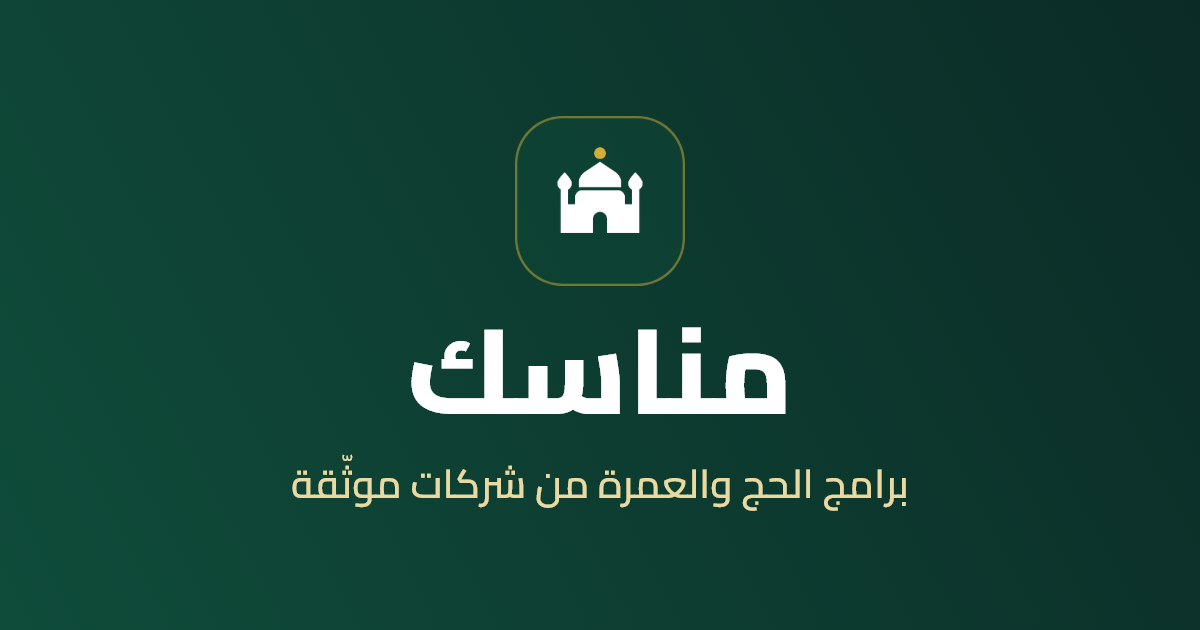
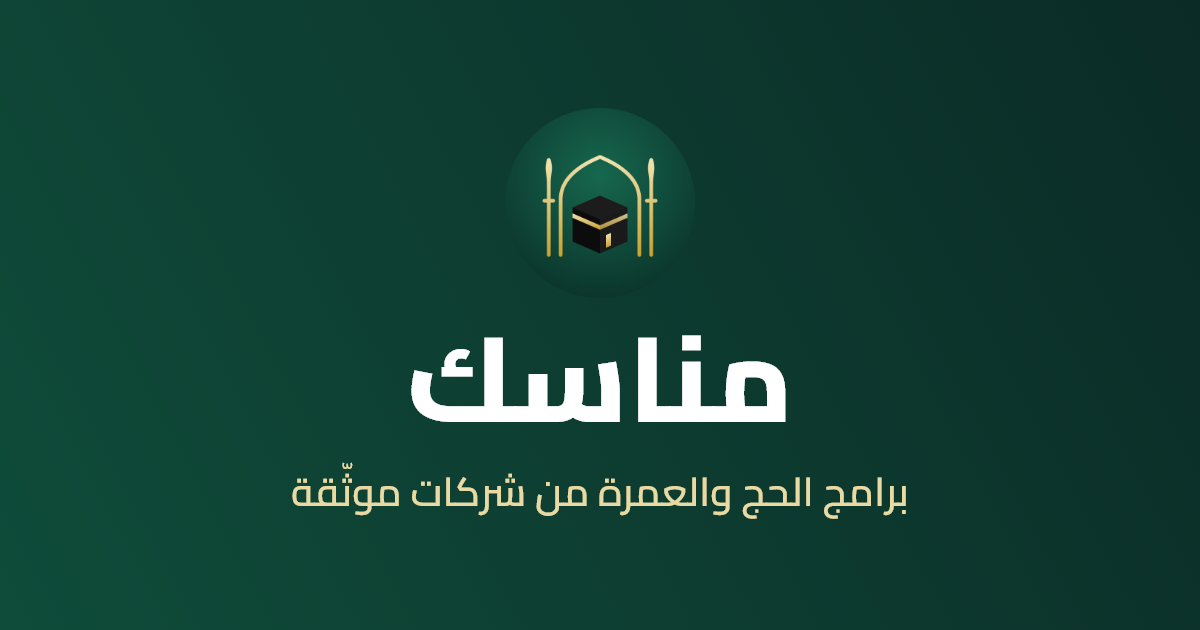
Add files via upload

diff --git a/delete.html b/delete.html
@@ -1,0 +1,57 @@
+<!doctype html>
+<html lang="ar" dir="rtl">
+<head>
+<meta charset="utf-8">
+<meta name="viewport" content="width=device-width, initial-scale=1">
+<title>حذف الحساب · مناسك</title>
+<meta name="description" content="كيف تحذف حسابك وبياناتك من تطبيق مناسك: من التطبيق مباشرة أو بالبريد الإلكتروني.">
+<meta property="og:title" content="حذف الحساب · مناسك">
+<meta property="og:image" content="https://manasik-app.github.io/og.png">
+<meta name="theme-color" content="#0f4c3a">
+<link rel="icon" type="image/png" href="favicon.png">
+<link rel="apple-touch-icon" href="apple-touch-icon.png">
+<link rel="stylesheet" href="style.css">
+</head>
+<body>
+<main class="wrap doc">
+<h1>حذف الحساب</h1>
+<p class="updated">آخر تحديث: 11 أكتوبر 2026</p>
+
+<h2>الطريقة الأولى: من التطبيق (فوري)</h2>
+<ol>
+  <li>افتح تطبيق مناسك ثم تبويب <strong>المزيد</strong>.</li>
+  <li>اضغط على <strong>الملف الشخصي</strong>.</li>
+  <li>اضغط على <strong>حذف حسابي</strong>.</li>
+  <li>اقرأ ما سيُمسح وما سيُجهَّل، ثم اكتب كلمة «حذف» لتفعيل زر التأكيد.</li>
+  <li>اضغط <strong>حذف حسابي نهائيًا</strong>، ويتم الحذف فورًا ويبدأ التطبيق بحساب جديد فارغ.</li>
+</ol>
+
+<h2>الطريقة الثانية: بالبريد الإلكتروني</h2>
+<p>أرسل طلبك إلى <a href="mailto:manasik.app.eg@gmail.com">manasik.app.eg@gmail.com</a> ومعه <strong>رقم حسابك</strong> (يظهر في المزيد ← الملف الشخصي)، وننفّذ الحذف خلال 30 يومًا. إن لم تتمكن من فتح التطبيق فاذكر رقم الحجز أو رقم الهاتف الذي استخدمته في طلبك للتحقق.</p>
+
+<h2>ما الذي يُمسح؟</h2>
+<ul>
+  <li>حسابك على التطبيق وقائمة المفضلة.</li>
+  <li>البريد الإلكتروني المرتبط بحسابك (إن اخترت حمايته).</li>
+  <li>رمز الإشعارات الخاص بجهازك.</li>
+</ul>
+
+<h2>ما الذي يُجهَّل (يبقى بلا هوية)؟</h2>
+<ul>
+  <li>اسمك ورقم هاتفك وملاحظاتك في حجوزاتك: تبقى سجلات الحجز للشركة المنظِّمة باسم «مستخدم محذوف» ودون رقمك.</li>
+  <li>اسمك في تقييماتك للبرامج.</li>
+  <li>إحصائيات الاستخدام المجمّعة (مشاهدات وضغطات) تُفصل عن حسابك ولا يمكن ربطها بك.</li>
+</ul>
+
+<h2>ملاحظات</h2>
+<ul>
+  <li>الحذف نهائي ولا يمكن التراجع عنه، ولن تستطيع استرجاع حجوزاتك بعده.</li>
+  <li>البيانات المحفوظة محليًا على جهازك (المظهر وبيانات الملف) تُمسح بمسح بيانات التطبيق أو حذفه.</li>
+  <li>لحذف حساب <strong>شركة</strong> تواصل معنا على البريد أعلاه.</li>
+</ul>
+
+<a class="back" href="index.html">العودة إلى الصفحة الرئيسية</a>
+</main>
+<footer><a href="privacy.html">سياسة الخصوصية</a>·<a href="terms.html">الشروط والأحكام</a>·<a href="delete.html">حذف الحساب</a></footer>
+</body>
+</html>

diff --git a/privacy.html b/privacy.html
@@ -7,6 +7,8 @@
 <meta property="og:title" content="سياسة الخصوصية · مناسك">
 <meta property="og:image" content="https://manasik-app.github.io/og.png">
 <meta name="theme-color" content="#0f4c3a">
+<link rel="icon" type="image/png" href="favicon.png">
+<link rel="apple-touch-icon" href="apple-touch-icon.png">
 <link rel="stylesheet" href="style.css">
 </head>
 <body>
@@ -37,7 +39,7 @@
 <h2>الخدمات الخارجية</h2>
 <p>عند الضغط على زر التواصل يُفتح واتساب، ويخضع ما تُرسله هناك لسياسة واتساب. نجمع تقارير أعطال تقنية مجهولة (نوع الجهاز ونسخة النظام وتفاصيل الخطأ) عبر Firebase Crashlytics من Google لتحسين استقرار التطبيق، ودون بيانات شخصية. ونستخدم Firebase Cloud Messaging من Google لإرسال الإشعارات.</p>
 <h2>حذف البيانات</h2>
-<p>يمكنك طلب حذف حسابك وبياناتك (الحجوزات والمفضلة والبريد المرتبط ورمز الإشعارات) بمراسلتنا على manasik.app.eg@gmail.com، أو من التطبيق: المزيد ← الملف الشخصي ← «حذف حسابي»، فيجهّز لك رسالة بريد جاهزة بالطلب ورقم حسابك. يتم الحذف خلال 30 يومًا. تُفصل إحصائيات الاستخدام المجمّعة عن حسابك عند الحذف.</p>
+<p>يمكنك حذف حسابك مباشرة من التطبيق: المزيد ← الملف الشخصي ← «حذف حسابي»، ويتم الحذف فورًا. يُمسح حسابك وقائمة المفضلة والبريد المرتبط ورمز الإشعارات، ويُجهَّل اسمك ورقمك في حجوزاتك (تبقى للشركة باسم «مستخدم محذوف» ودون رقمك) واسمك في تقييماتك، وتُفصل إحصائيات الاستخدام المجمّعة عن حسابك. بديلًا عن ذلك يمكنك إرسال طلب إلى manasik.app.eg@gmail.com ومعه رقم حسابك (يظهر في الملف الشخصي) وننفذه خلال 30 يومًا. لحذف حساب شركة تواصل معنا على نفس البريد. تفاصيل أكثر في صفحة حذف الحساب على موقعنا.</p>
 <h2>الأطفال</h2>
 <p>تُسجَّل بيانات الأطفال كعدد فقط، بدون أسماء.</p>
 <h2>آخر تحديث</h2>
@@ -46,6 +48,6 @@
 <p>للاستفسار عن الخصوصية: manasik.app.eg@gmail.com</p>
 <a class="back" href="index.html">العودة إلى الصفحة الرئيسية</a>
 </main>
-<footer><a href="privacy.html">سياسة الخصوصية</a>·<a href="terms.html">الشروط والأحكام</a></footer>
+<footer><a href="privacy.html">سياسة الخصوصية</a>·<a href="terms.html">الشروط والأحكام</a>·<a href="delete.html">حذف الحساب</a></footer>
 </body>
 </html>

diff --git a/terms.html b/terms.html
@@ -7,6 +7,8 @@
 <meta property="og:title" content="الشروط والأحكام · مناسك">
 <meta property="og:image" content="https://manasik-app.github.io/og.png">
 <meta name="theme-color" content="#0f4c3a">
+<link rel="icon" type="image/png" href="favicon.png">
+<link rel="apple-touch-icon" href="apple-touch-icon.png">
 <link rel="stylesheet" href="style.css">
 </head>
 <body>
@@ -33,6 +35,6 @@
 <p>للاستفسار عن هذه الشروط: manasik.app.eg@gmail.com</p>
 <a class="back" href="index.html">العودة إلى الصفحة الرئيسية</a>
 </main>
-<footer><a href="privacy.html">سياسة الخصوصية</a>·<a href="terms.html">الشروط والأحكام</a></footer>
+<footer><a href="privacy.html">سياسة الخصوصية</a>·<a href="terms.html">الشروط والأحكام</a>·<a href="delete.html">حذف الحساب</a></footer>
 </body>
 </html>

diff --git a/p.html b/p.html
@@ -16,11 +16,13 @@
 <meta name="twitter:card" content="summary_large_image">
 <meta name="theme-color" content="#0f4c3a">
 <meta name="robots" content="noindex">
+<link rel="icon" type="image/png" href="favicon.png">
+<link rel="apple-touch-icon" href="apple-touch-icon.png">
 <link rel="stylesheet" href="style.css">
 </head>
 <body>
 <main class="wrap open">
-  <div class="logo" aria-hidden="true">م</div>
+  <img class="logo" src="logo.png" alt="" width="72" height="72">
   <h1>برنامج على مناسك</h1>
   <p id="msg">افتح البرنامج في التطبيق لمشاهدة التفاصيل والسعر.</p>
   <a class="btn btn-primary btn-block hidden" id="open" href="#">افتح في التطبيق</a>

diff --git a/style.css b/style.css
@@ -92,3 +92,6 @@ footer a { margin: 0 8px; }
 
 .doc ul { margin: 0; padding: 0 20px 0 0; color: var(--text-body); font-size: 15px; font-weight: 400; }
 .doc li { margin: 4px 0; }
+.doc ol { margin: 0; padding: 0 22px 0 0; color: var(--text-body); font-size: 15px; font-weight: 400; }
+.doc ol li { margin: 6px 0; }
+img.logo { background: none; border: 0; border-radius: 50%; display: block; object-fit: contain; }
